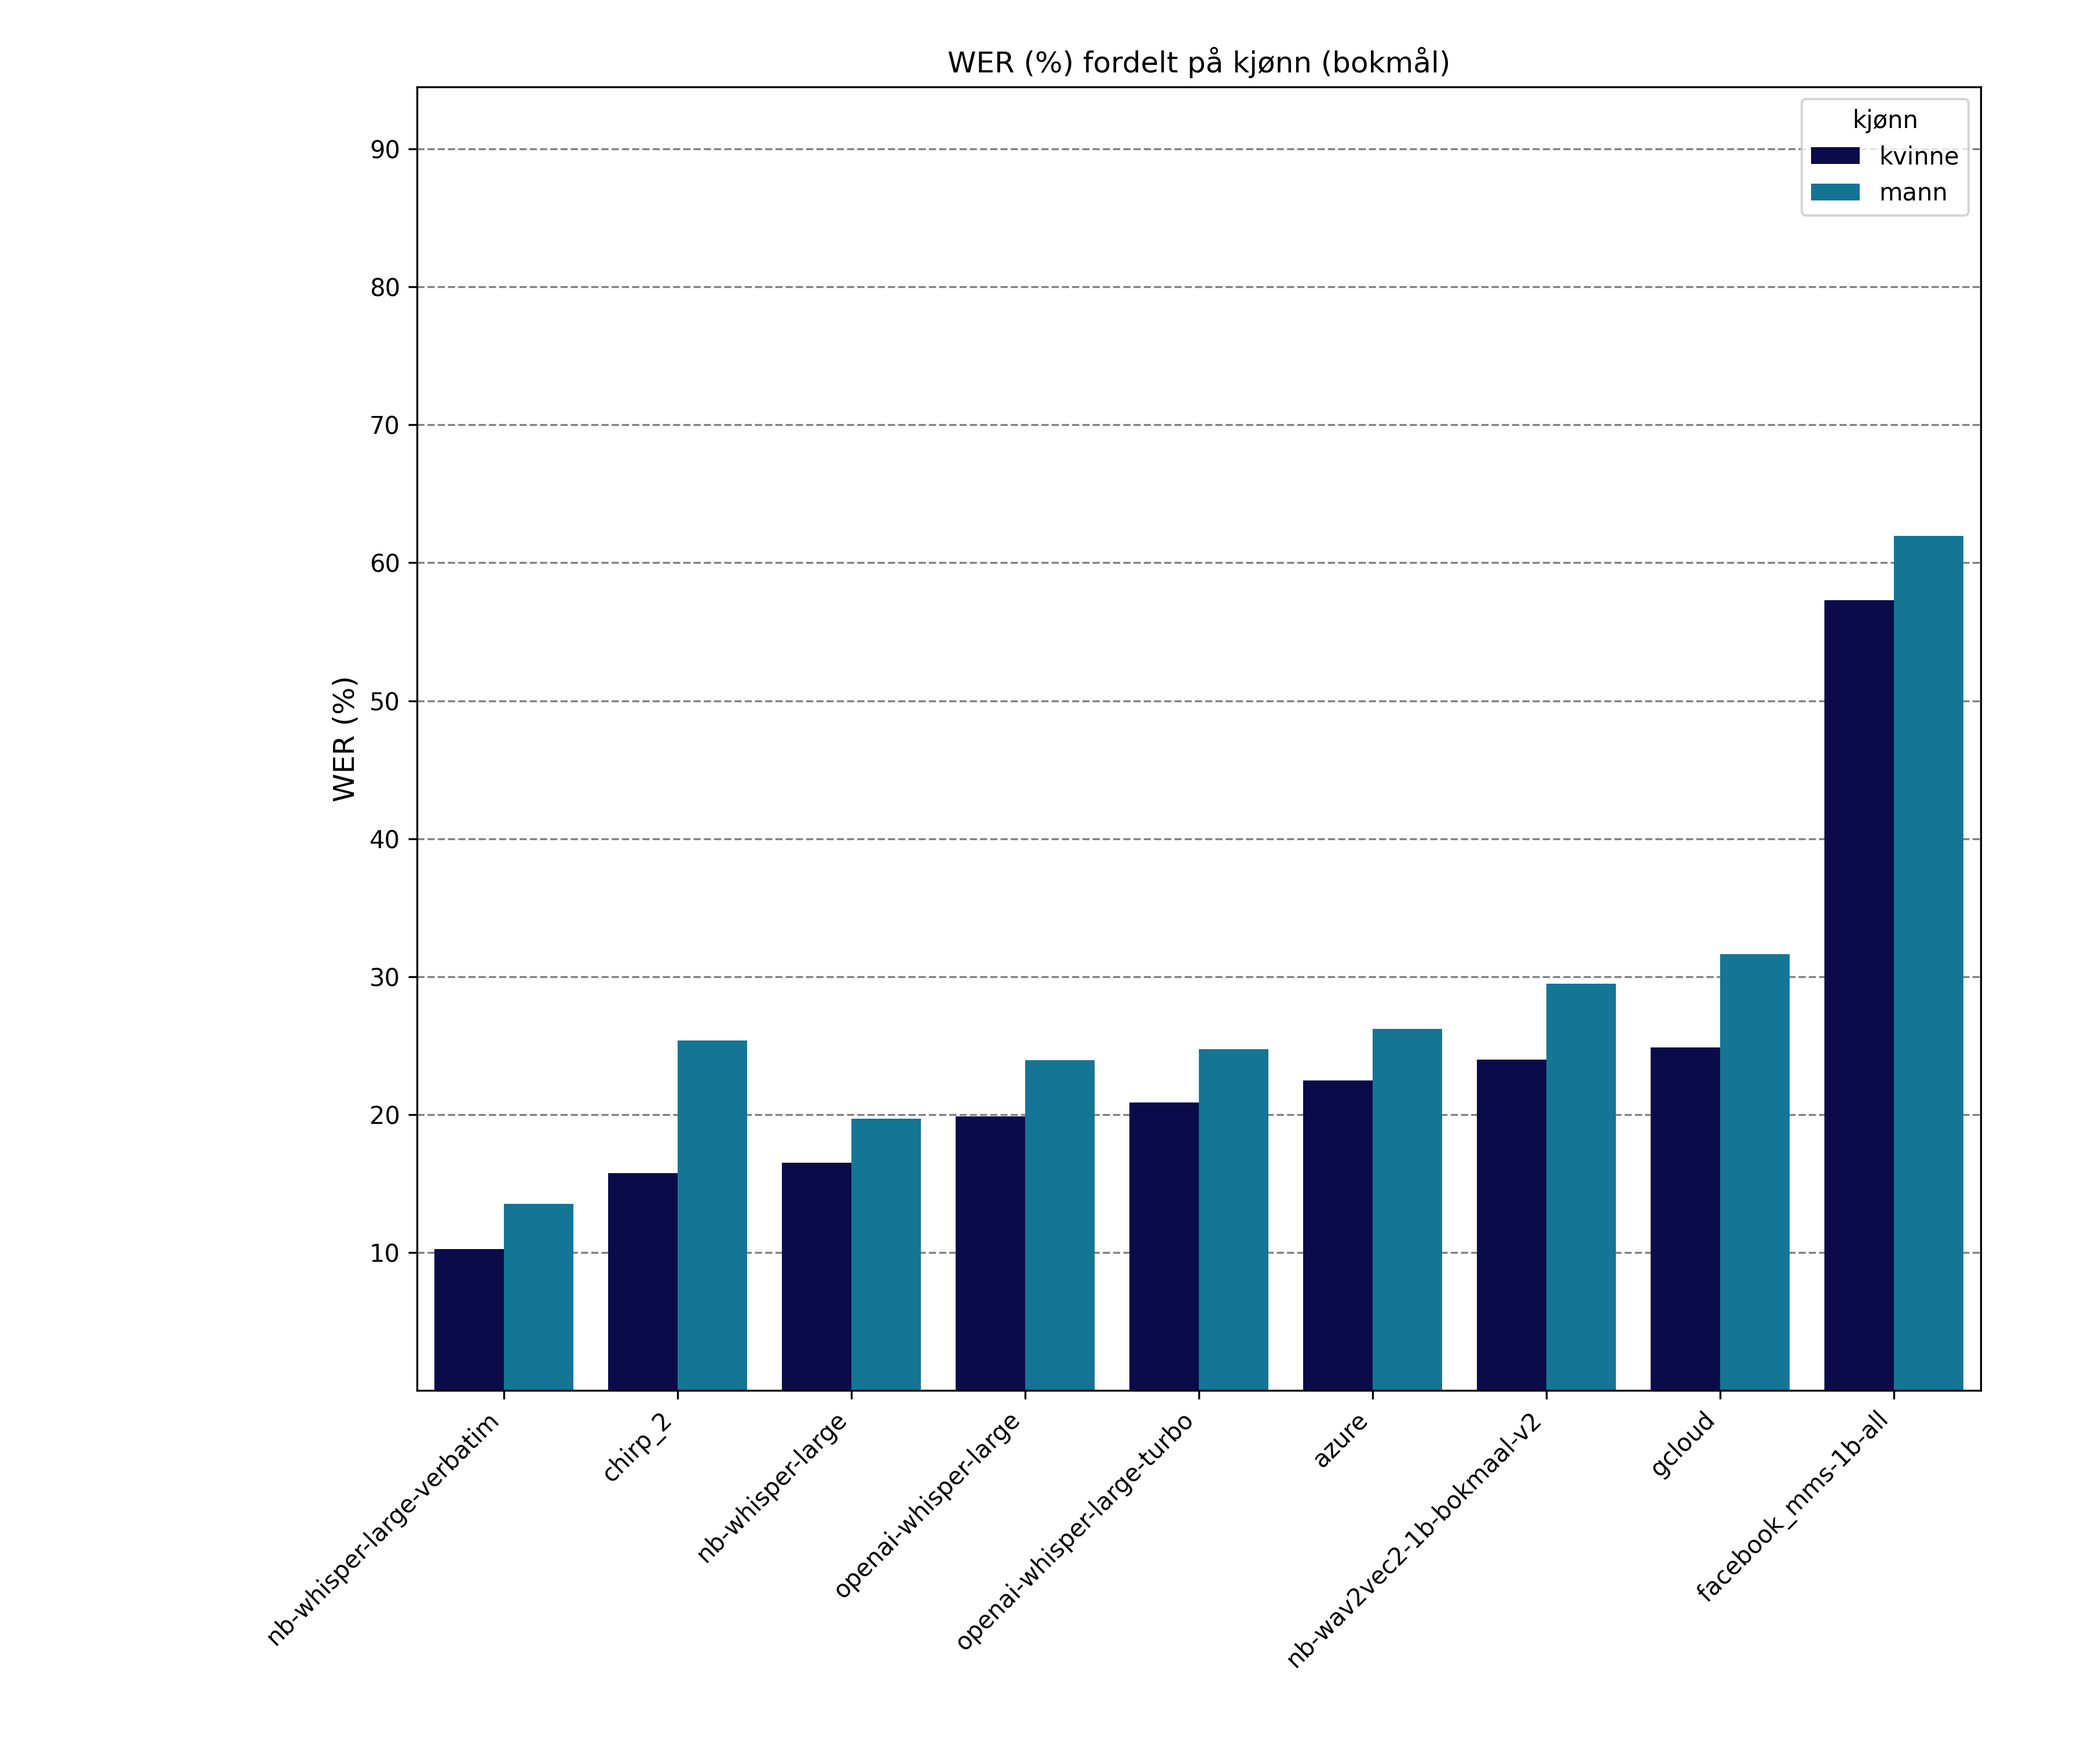
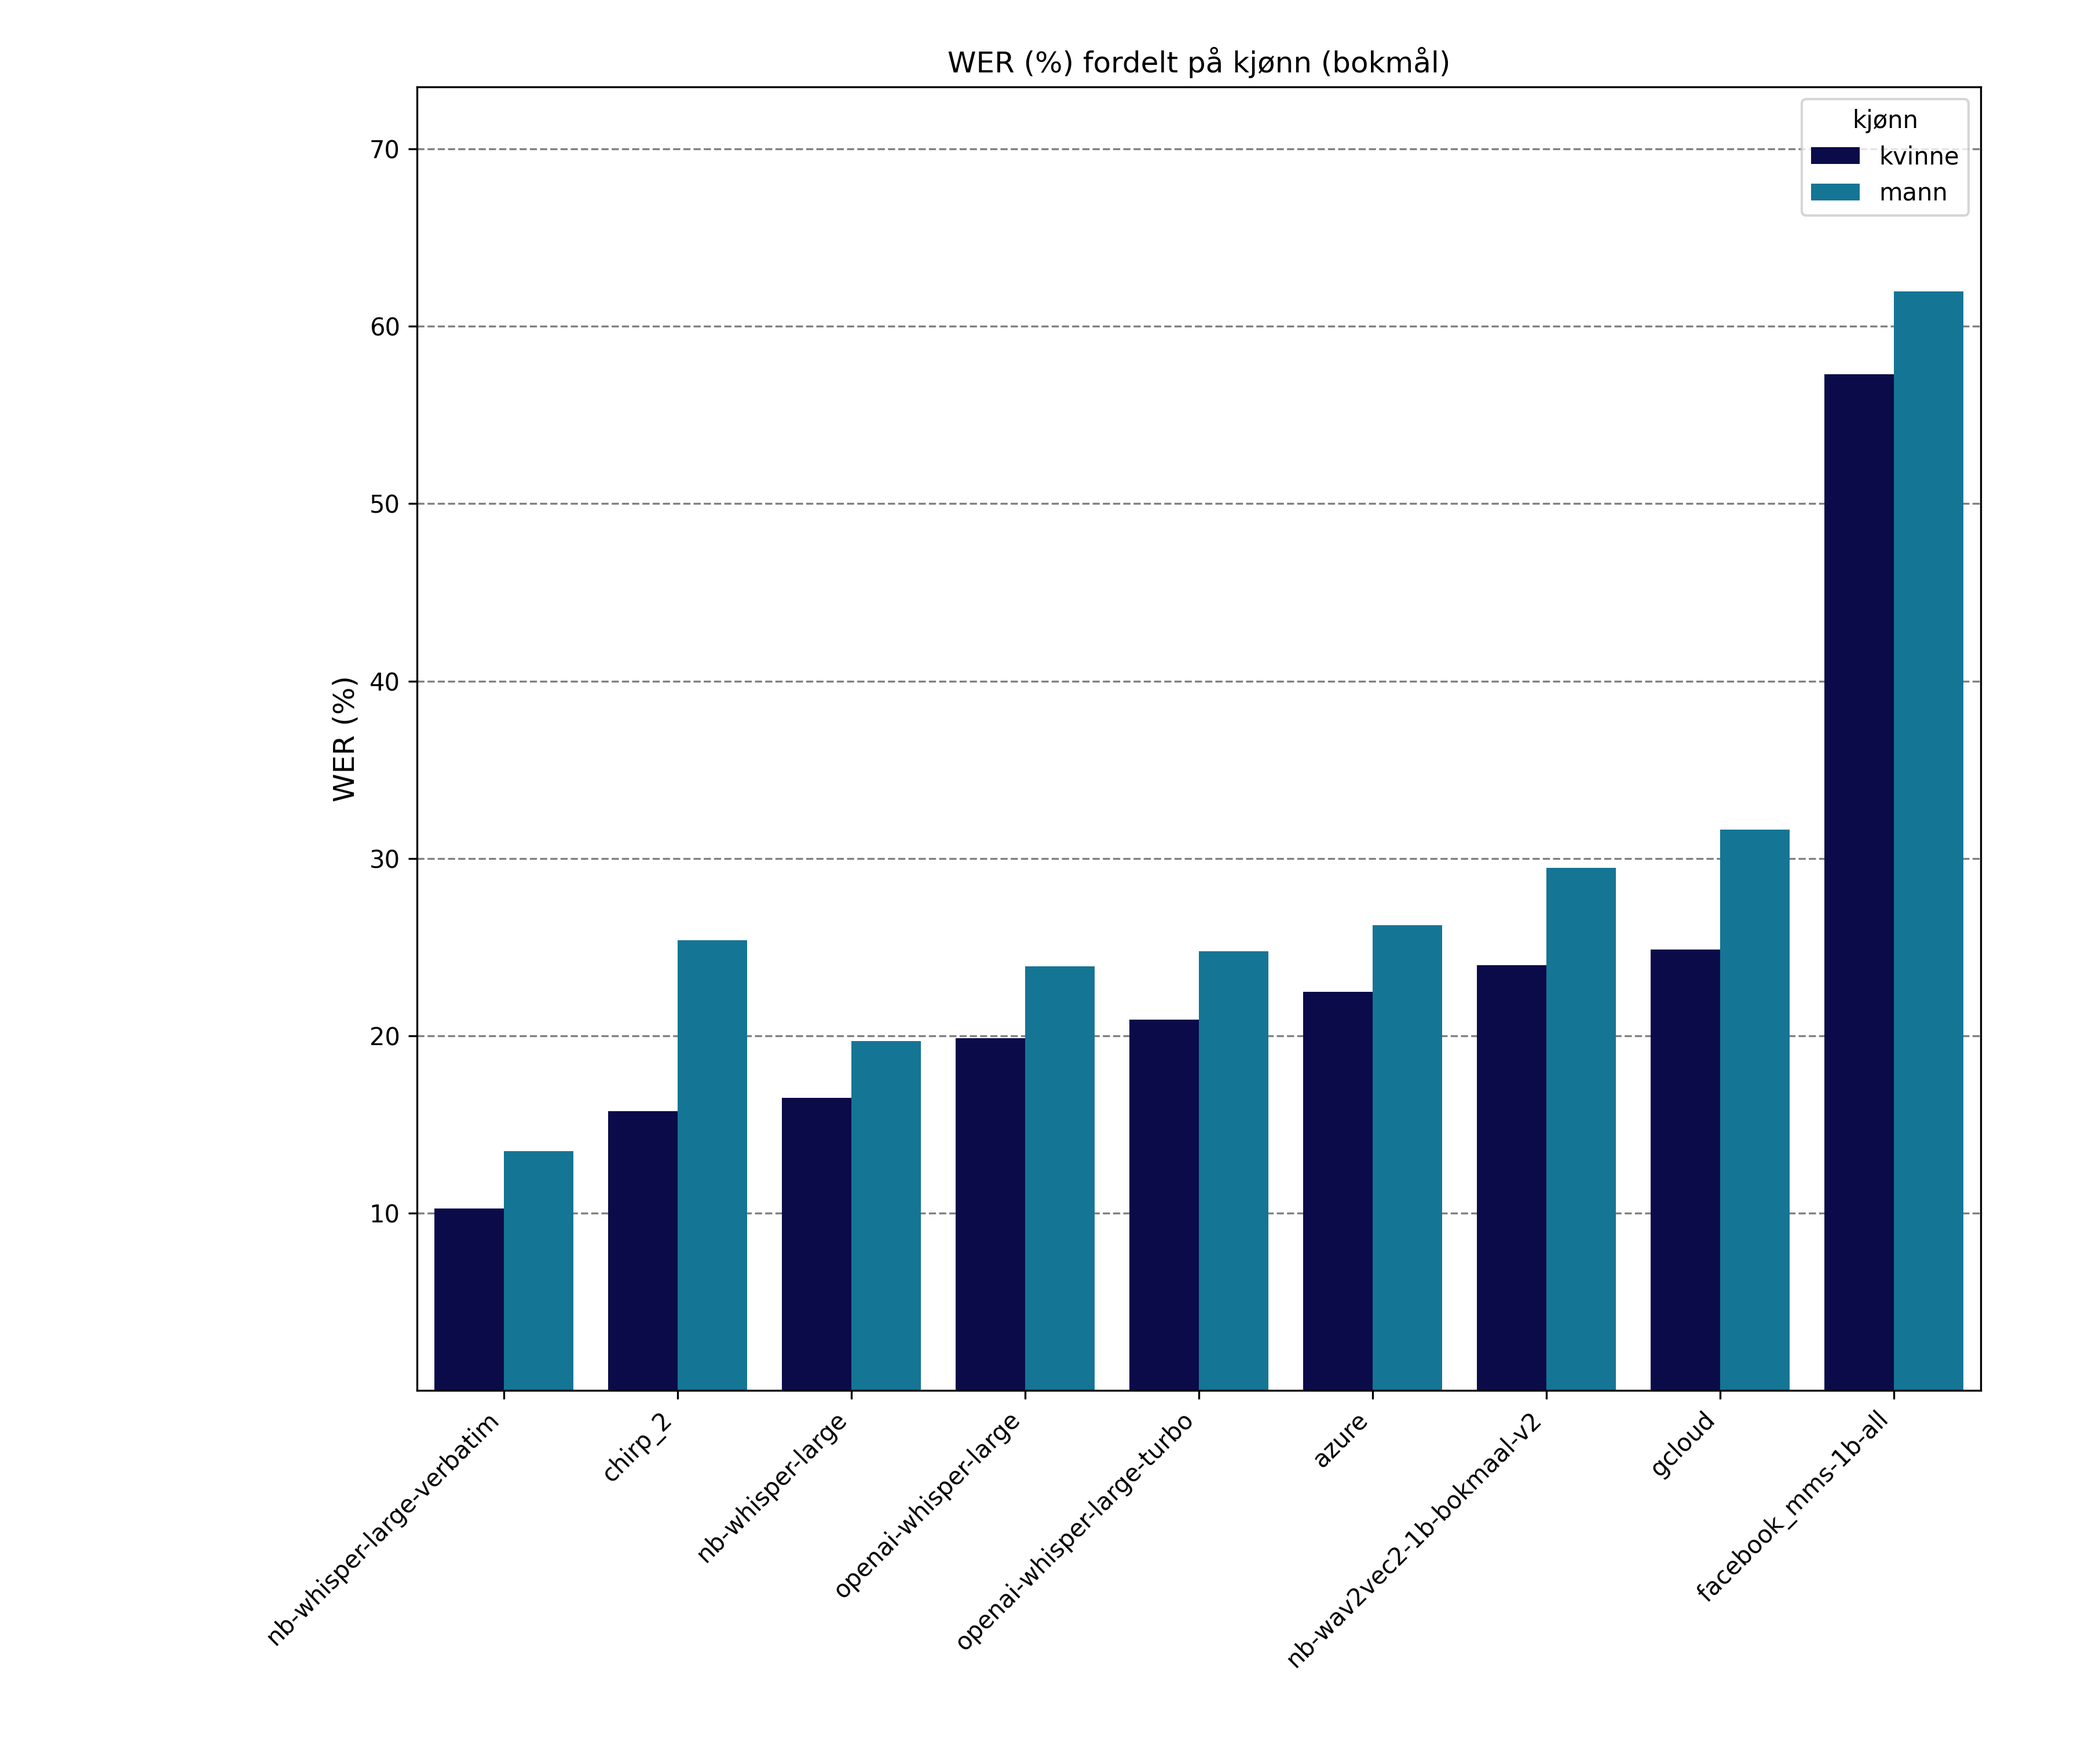
Scale bar charts to max value 70

Changed region(s): [[0.3733, 0.465, 0.8711, 0.682], [0.8711, 0.155, 0.9644, 0.372], [0.1867, 0.527, 0.3733, 0.744]]

diff --git a/notebooks/notebook_utils.py b/notebooks/notebook_utils.py
@@ -165,7 +165,7 @@ def make_plot(
 
     match plot_type:
         case "barchart":
-            score_display_range = list(range(10, 100, 10))
+            score_display_range = list(range(10, 80, 10))
             sns.barplot(
                 x="modell",
                 y=metric,
